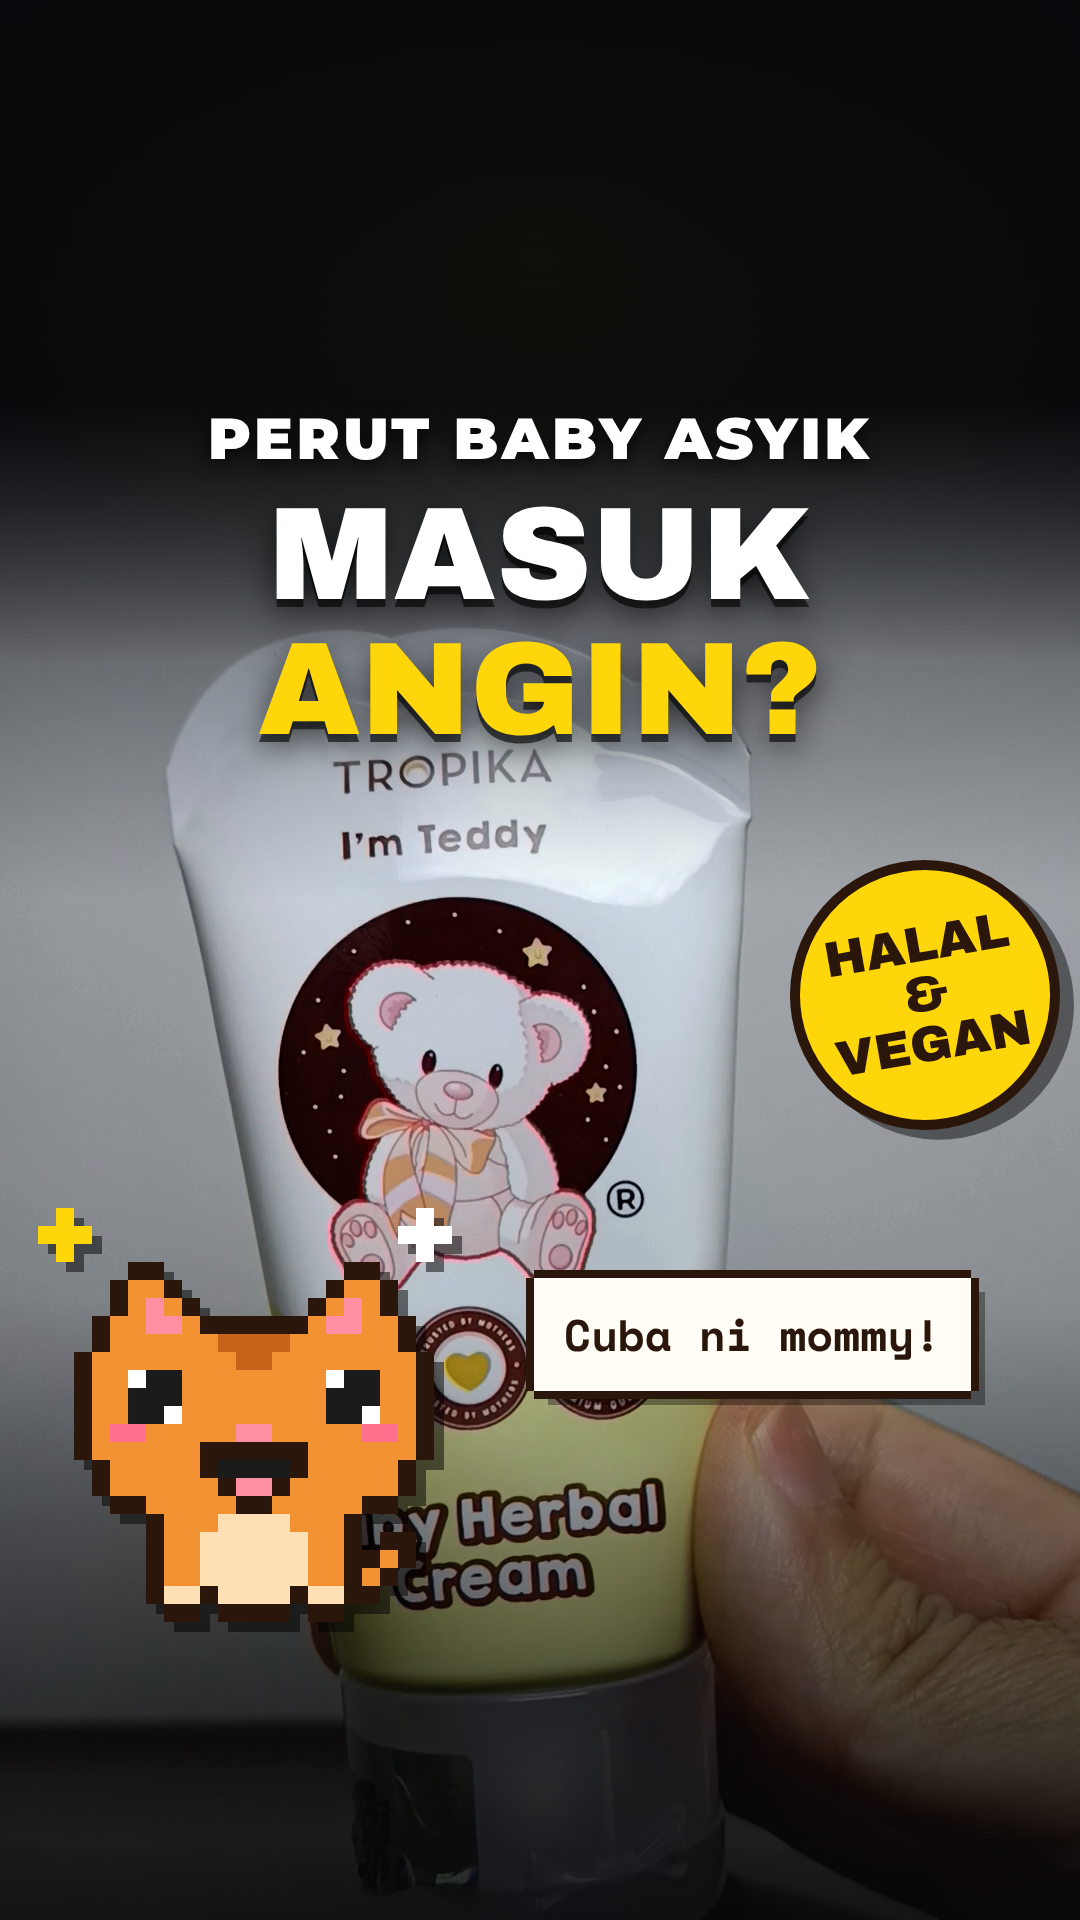
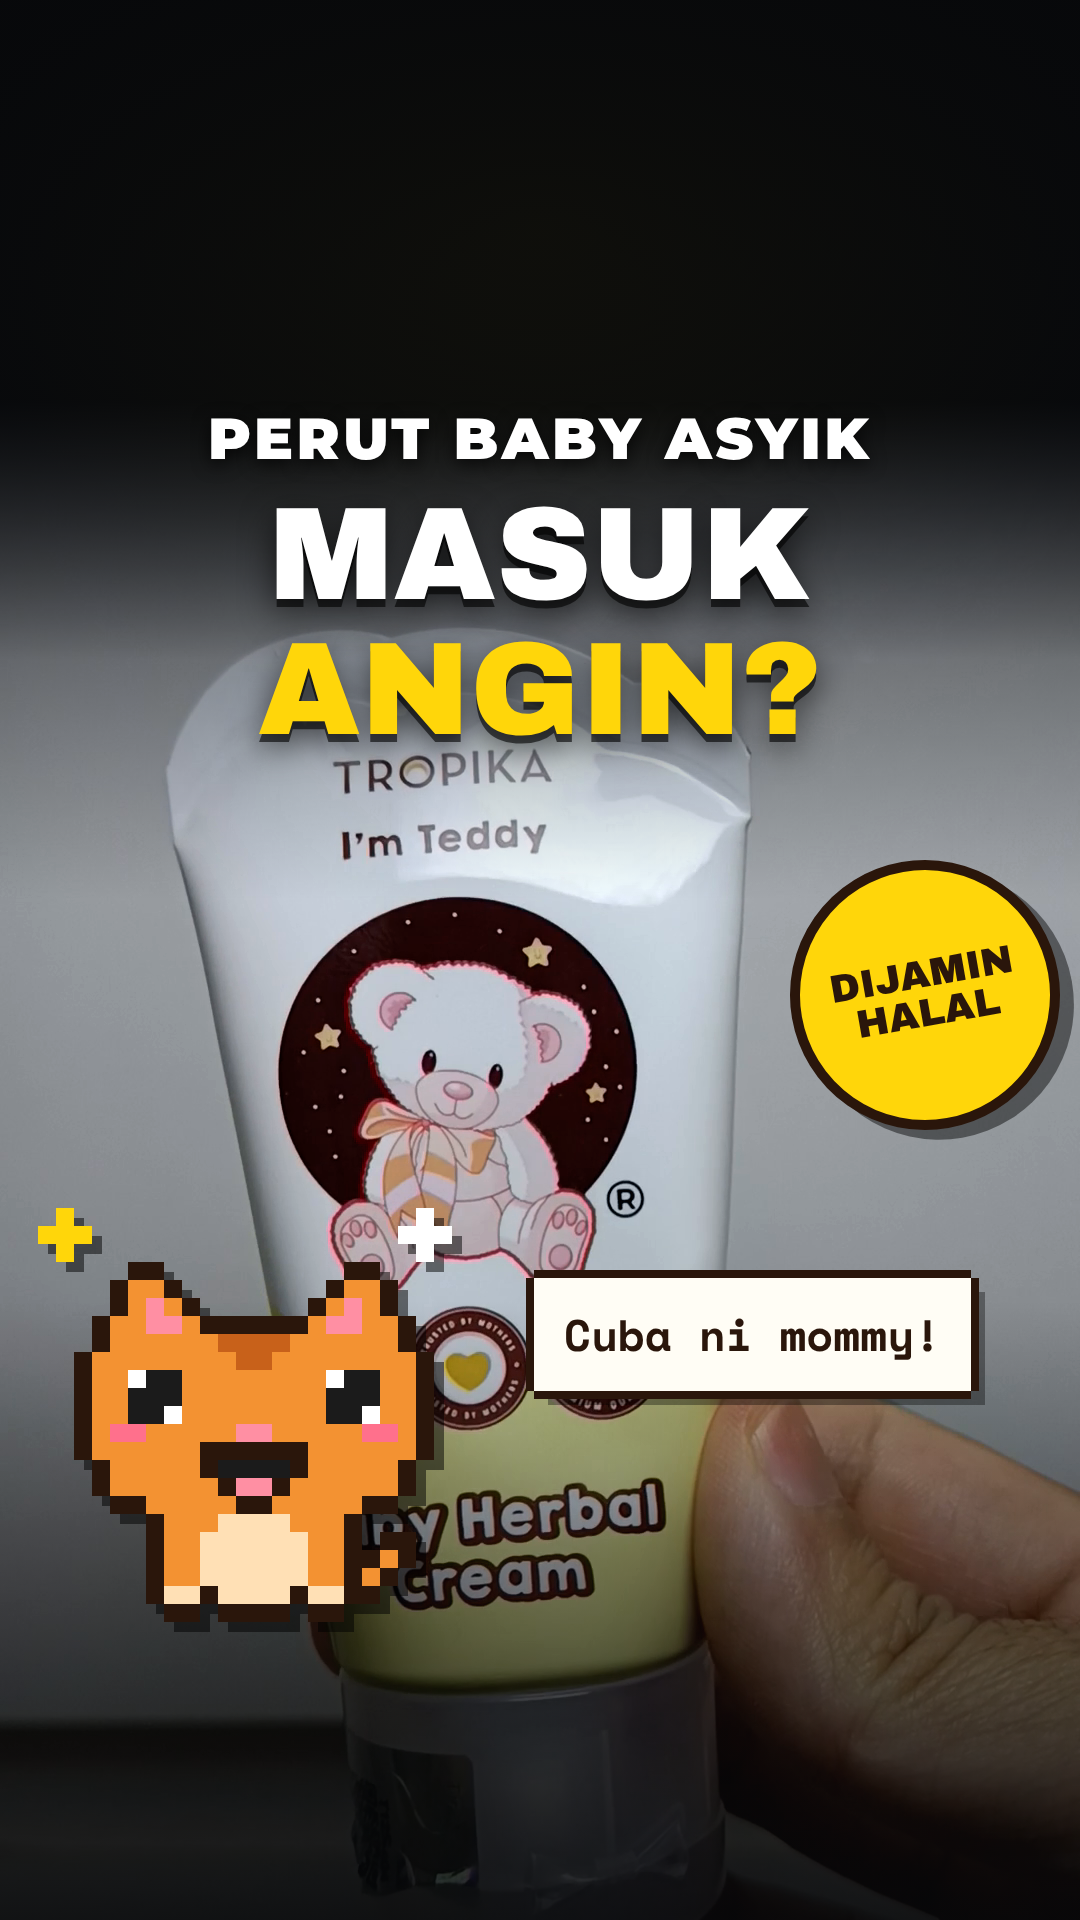
tropika-herbal-cream: cover badge DIJAMIN HALAL; promo badge text auto-fits the disc
Claude-Session: https://claude.ai/code/session_01FSFWWRvHpWTAnMm2R9b5o9

Changed region(s): [[0.7639, 0.4688, 0.9472, 0.5625]]

diff --git a/promo/thumbnail.py b/promo/thumbnail.py
@@ -37,6 +37,8 @@ def build_html(p):
     bubble_room = 1040 - C.CW * SCALE - 30 - 60
     bubble_size = min(44, int(bubble_room / (0.6 * max(len(p.bubble or ""), 1))))
     # + shift: background moves up and is enlarged to keep the bottom filled; - shift: it moves down
+    # Archivo Black caps are ~0.8em wide: fit the longest badge word inside the 220px disc
+    badge_size = min(50, int(220 / (0.8 * max((len(w) for w in (p.badge or "x").split()), default=1))))
     bg_height = 1920 + max(p.frame_shift, 0)
     # a frame moved down leaves a gap at the top: fade it into the backdrop instead of a hard edge
     bg_fade = (f"-webkit-mask-image: linear-gradient(180deg, transparent 0, #000 {min(-p.frame_shift, 260)}px);"
@@ -67,7 +69,7 @@ def build_html(p):
         background: #ffd60a; border: 10px solid {INK}; transform: rotate(-10deg);
         display: flex; align-items: center; justify-content: center; text-align: center;
         box-shadow: 12px 12px 0 rgba(0,0,0,0.45); }}
-      #badge span {{ font-family: "Archivo Black", sans-serif; font-size: 50px; line-height: 1.0; color: {INK}; width: 220px; }}
+      #badge span {{ font-family: "Archivo Black", sans-serif; font-size: {badge_size}px; line-height: 1.0; color: {INK}; width: 220px; }}
       #oyen {{ position: absolute; left: 20px; top: {1640 - C.CH * SCALE}px; width: {C.CW * SCALE}px; height: {C.CH * SCALE}px; }}
       #oyen svg {{ display: block; filter: drop-shadow(10px 10px 0 rgba(0,0,0,0.5)); }}
       #bubble {{ position: absolute; left: {20 + C.CW * SCALE + 10}px; top: {1640 - C.CH * SCALE + 70}px;

diff --git a/videos/tropika-herbal-cream/promo.py b/videos/tropika-herbal-cream/promo.py
@@ -12,7 +12,7 @@ PROMO = Promo(
     frame_shift=-400,                 # tube moves down: teddy clears the headline
     kicker="PERUT BABY ASYIK",
     headline=["MASUK", "*ANGIN?*"],
-    badge="HALAL & VEGAN",
+    badge="DIJAMIN HALAL",
     badge_xy=(790, 860),
     pose="Teruja",
     bubble="Cuba ni mommy!",
